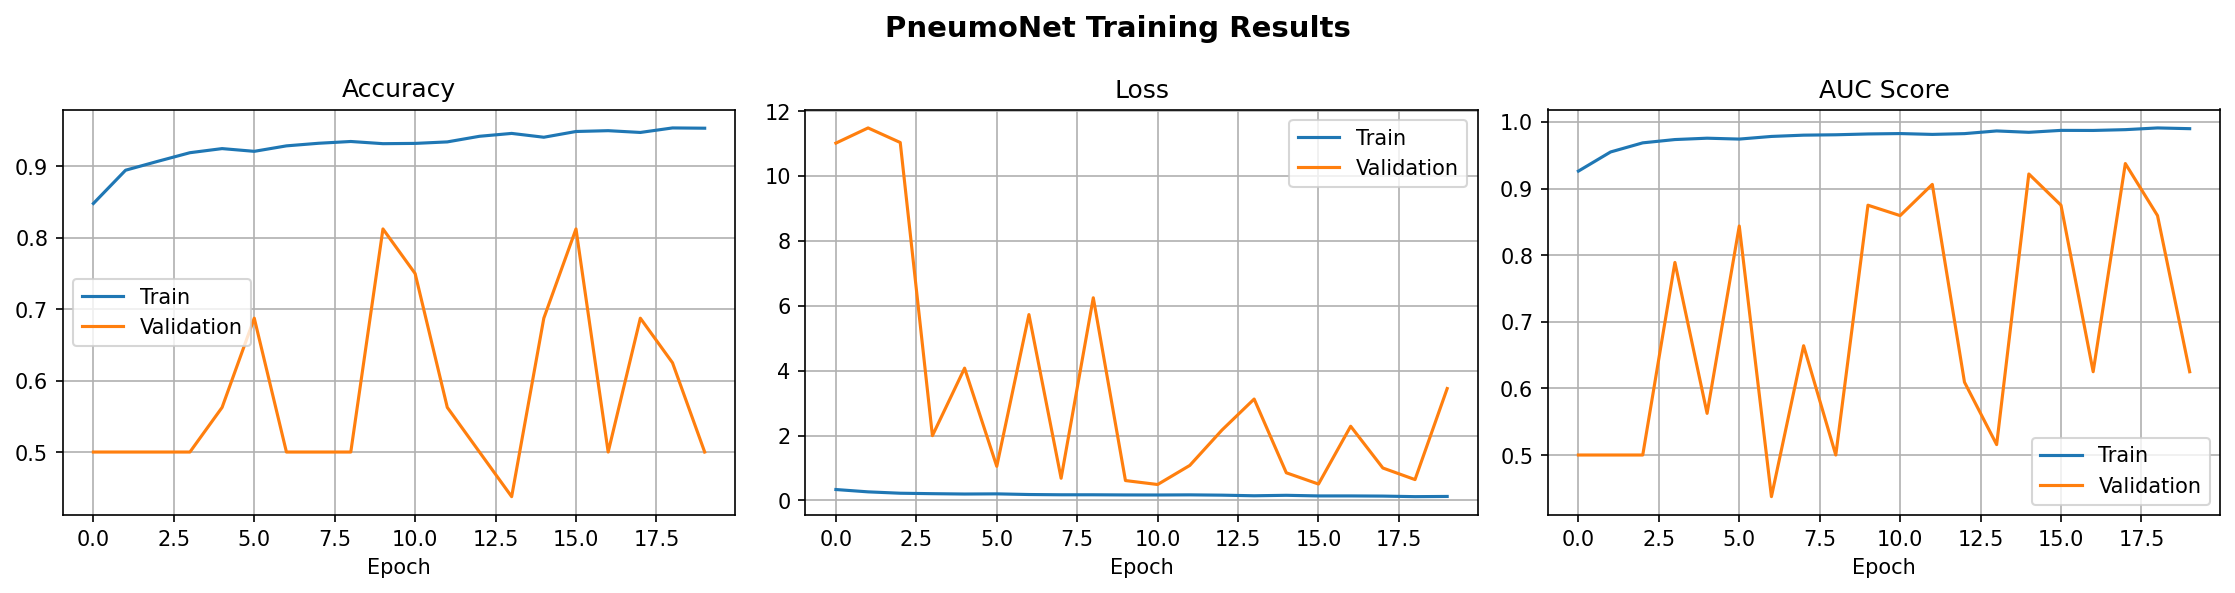
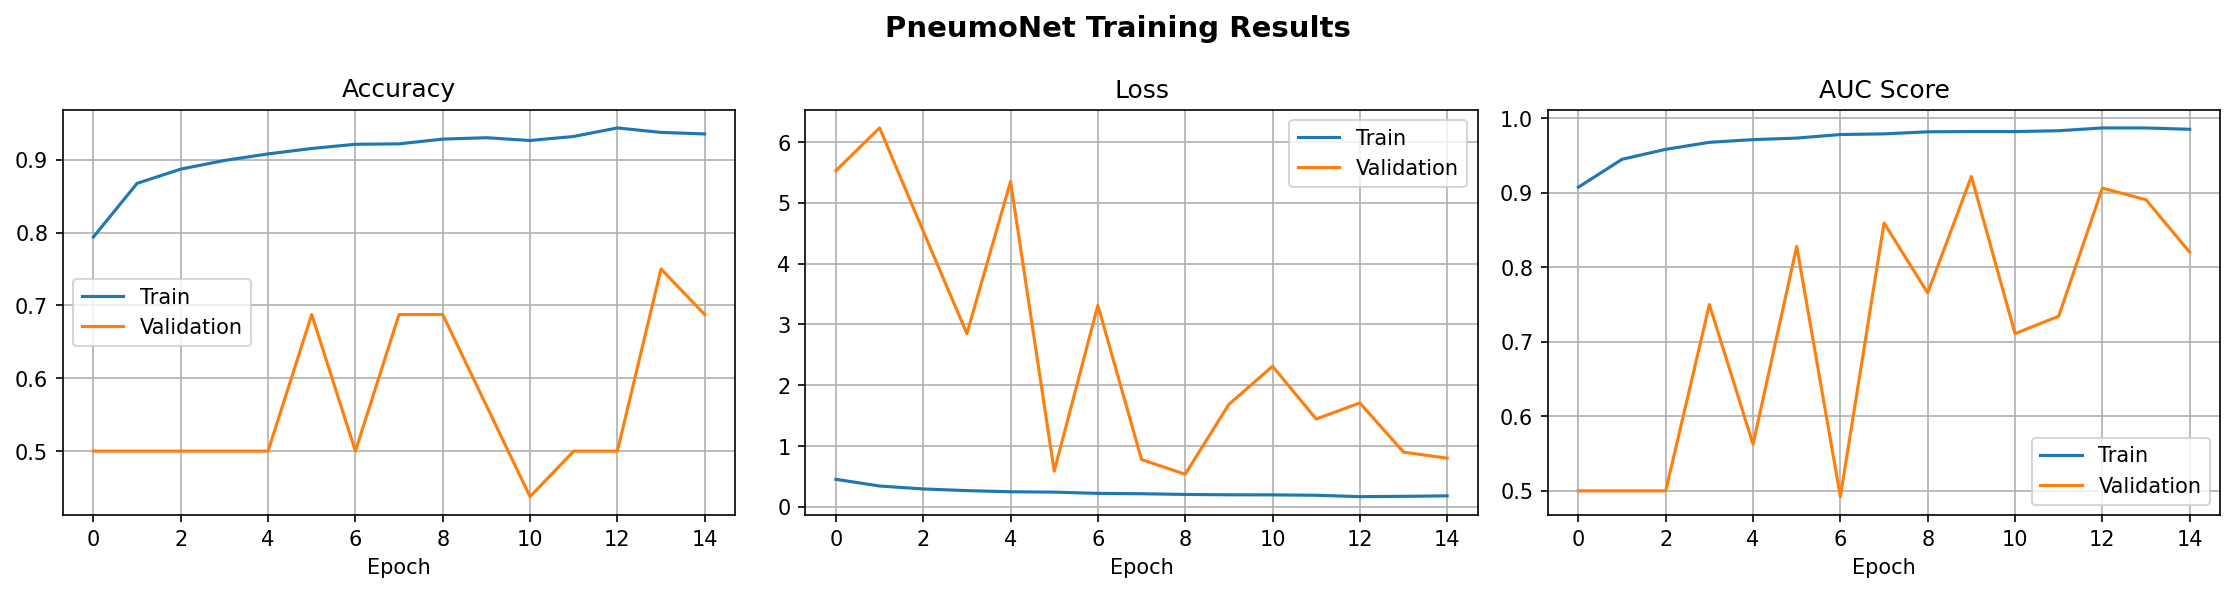
Updated model, inference pipeline, and project Screenshot

diff --git a/train_kaggle.py b/train_kaggle.py
@@ -26,7 +26,8 @@ print("GPU available:", tf.config.list_physical_devices('GPU'))
 IMG_SIZE    = 128        # image resize dimension
 BATCH_SIZE  = 32         # images per batch
 EPOCHS      = 20         # max training epochs
-LR          = 1e-3       # learning rate
+LR = 3e-4   # slower learning = better balance
+# LR          = 1e-3       # learning rate
 
 TRAIN_DIR   = "chest_xray/train"
 VAL_DIR     = "chest_xray/val"
@@ -92,23 +93,32 @@ total = train_gen.samples
 n_normal    = len(os.listdir(os.path.join(TRAIN_DIR, 'NORMAL')))
 n_pneumonia = len(os.listdir(os.path.join(TRAIN_DIR, 'PNEUMONIA')))
 
-weight_normal    = total / (2 * n_normal)
-weight_pneumonia = total / (2 * n_pneumonia)
+# weight_normal    = total / (2 * n_normal)
+# weight_pneumonia = total / (2 * n_pneumonia)
+
+# class_weights = {0: weight_normal, 1: weight_pneumonia}
+weight_normal    = (total / (2 * n_normal)) * 1.5   # Normal ko extra boost
+weight_pneumonia = (total / (2 * n_pneumonia))
 
 class_weights = {0: weight_normal, 1: weight_pneumonia}
-print(f"\nClass weights: Normal={weight_normal:.2f}, Pneumonia={weight_pneumonia:.2f}")
+print(f"Class weights: Normal={weight_normal:.2f}, Pneumonia={weight_pneumonia:.2f}")
+# print(f"\nClass weights: Normal={weight_normal:.2f}, Pneumonia={weight_pneumonia:.2f}")
 
 # ─── MODEL ARCHITECTURE ──────────────────────────────
 def build_pneumonet(img_size=128):
     inputs = tf.keras.Input(shape=(img_size, img_size, 3), name="xray_input")
 
     # Block 1
+    # x = layers.Conv2D(32, 3, padding='same', name="conv1")(inputs)
+    # x = layers.BatchNormalization()(x)
+    # x = layers.Activation('relu')(x)
+    # x = layers.MaxPooling2D(2)(x)
+    # x = layers.Dropout(0.25)(x)
     x = layers.Conv2D(32, 3, padding='same', name="conv1")(inputs)
     x = layers.BatchNormalization()(x)
     x = layers.Activation('relu')(x)
     x = layers.MaxPooling2D(2)(x)
-    x = layers.Dropout(0.25)(x)
-
+    x = layers.Dropout(0.15)(x)
     # Block 2
     x = layers.Conv2D(64, 3, padding='same', name="conv2")(x)
     x = layers.BatchNormalization()(x)
@@ -157,17 +167,30 @@ model.compile(
 # ─── CALLBACKS ───────────────────────────────────────
 callbacks = [
     # Save best model automatically
+    # ModelCheckpoint(
+    #     filepath=os.path.join(MODEL_DIR, 'pneumonet.keras'),
+    #     monitor='val_auc',
+    #     save_best_only=True,
+    #     mode='max',
+    #     verbose=1
+    # ),
+    # # Stop early if no improvement for 5 epochs
+    # EarlyStopping(
+    #     monitor='val_auc',
+    #     patience=5,
+    #     restore_best_weights=True,
+    #     verbose=1
+    # ),
     ModelCheckpoint(
         filepath=os.path.join(MODEL_DIR, 'pneumonet.keras'),
-        monitor='val_auc',
+        monitor='val_loss',
         save_best_only=True,
-        mode='max',
+        mode='min',
         verbose=1
     ),
-    # Stop early if no improvement for 5 epochs
     EarlyStopping(
-        monitor='val_auc',
-        patience=5,
+        monitor='val_loss',
+        patience=6,
         restore_best_weights=True,
         verbose=1
     ),
@@ -230,7 +253,7 @@ meta = {
     "architecture": "Custom 4-Block CNN",
     "input_shape": [IMG_SIZE, IMG_SIZE, 3],
     "classes": ["Normal", "Pneumonia"],
-    "threshold": 0.5,
+    "threshold": 0.3,
     "grad_cam_layer": "conv4_gradcam",
     "version": "2.0.0",
     "trained_on": "Kaggle Chest X-Ray Dataset",

diff --git a/test_balance.py b/test_balance.py
@@ -1,0 +1,42 @@
+import os
+os.environ['TF_CPP_MIN_LOG_LEVEL'] = '3'
+os.environ['TF_ENABLE_ONEDNN_OPTS'] = '0'
+
+import tensorflow as tf
+import numpy as np
+from tensorflow.keras.preprocessing.image import ImageDataGenerator
+
+model = tf.keras.models.load_model('model/pneumonet.keras')
+THRESHOLD = 0.3
+
+datagen = ImageDataGenerator(rescale=1./255)
+test_gen = datagen.flow_from_directory(
+    'chest_xray/test',
+    target_size=(128, 128),
+    batch_size=32,
+    class_mode='binary',
+    shuffle=False
+)
+
+preds = model.predict(test_gen, verbose=1)
+pred_labels = (preds > THRESHOLD).astype(int).flatten()
+true_labels = test_gen.classes
+
+normal_total    = np.sum(true_labels == 0)
+pneumonia_total = np.sum(true_labels == 1)
+normal_correct    = np.sum((pred_labels == 0) & (true_labels == 0))
+pneumonia_correct = np.sum((pred_labels == 1) & (true_labels == 1))
+
+print("\n========== BALANCE CHECK ==========")
+print(f"Normal    — Correct: {normal_correct}/{normal_total} "
+      f"({normal_correct/normal_total*100:.1f}%)")
+print(f"Pneumonia — Correct: {pneumonia_correct}/{pneumonia_total} "
+      f"({pneumonia_correct/pneumonia_total*100:.1f}%)")
+print(f"Overall Accuracy: {np.mean(pred_labels == true_labels)*100:.2f}%")
+print("====================================")
+
+if normal_correct/normal_total < 0.4:
+    print("\nWARNING: Model still biased! Normal detection bahut kam hai.")
+    print("Threshold aur kam karo ya training dobara karo.")
+else:
+    print("\nModel balanced hai!")

diff --git a/inference.py b/inference.py
@@ -175,7 +175,7 @@ def predict(image_bytes: bytes) -> dict:
 
     model, meta = get_model()
     img_size = tuple(meta["input_shape"][:2])
-    threshold = meta.get("threshold", 0.5)
+    threshold = meta.get("threshold", 0.3)
 
     # 1. Preprocess
     preprocessed = preprocess_xray(image_bytes, target_size=img_size)

diff --git a/README.md b/README.md
@@ -150,3 +150,30 @@ All medical imaging must be interpreted by licensed radiologists and physicians.
 **Developer** : Shubham Gupta 
 Guthub: https://github.com/buildwithShubh
 Repository :
+
+
+
+# Demo Screenshots
+
+## Home Interface
+
+![Home UI](Screenshot/ModelUI.png )
+
+---
+## Prediction 
+![Prediction] (![alt text](Screenshot/Predict.png))
+## Prediction Result
+
+![Prediction](Screenshot/ModelPrediction.png )
+![Prediction] (![alt text](Screenshot/ModelPridiction.png))
+---
+
+## Grad-CAM Visualization
+
+![GradCAM](Screenshot/GrayScale.png  )
+
+---
+
+## Training Curves
+
+![Training](Screenshot/TrainingCurves.png )